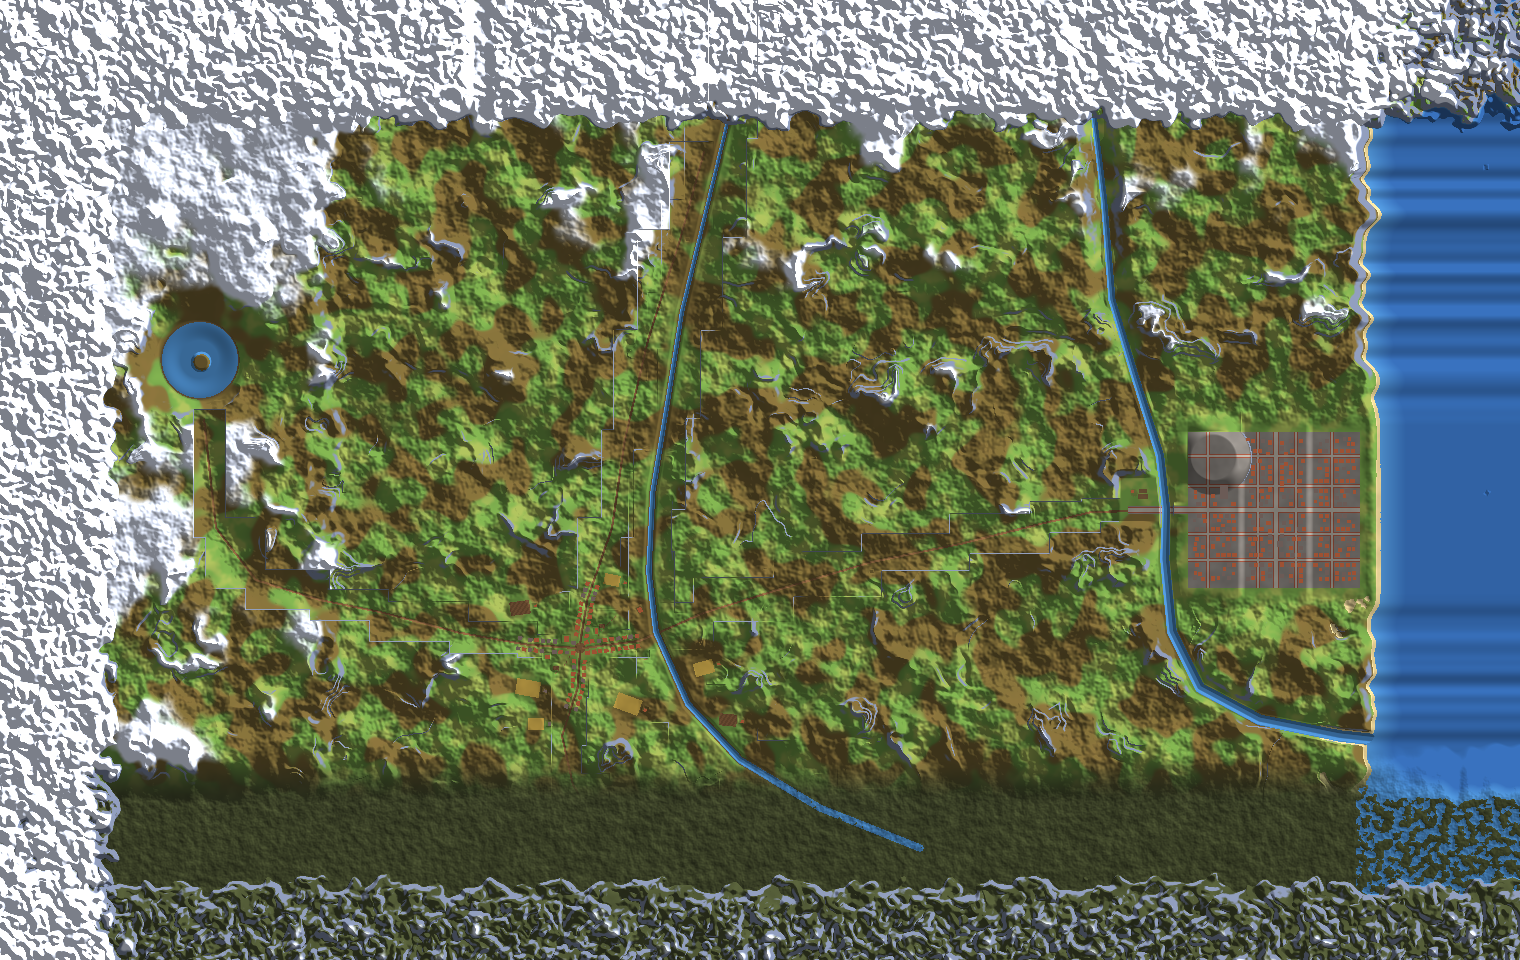
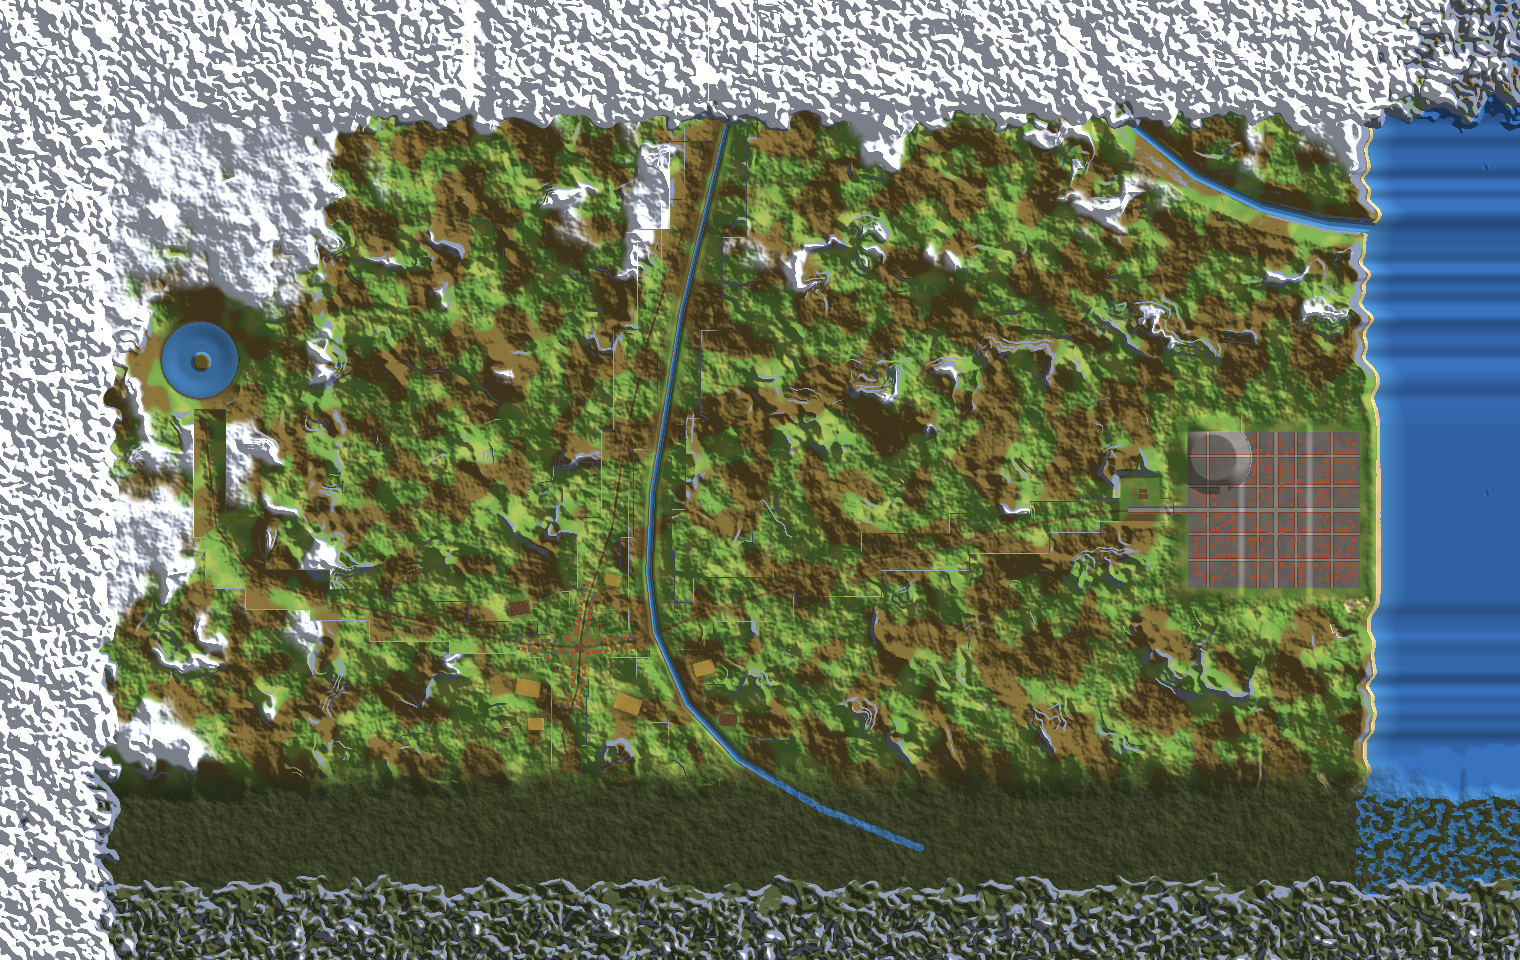
Rio fora da frente de Altamar; pacote inteiro espalhado: enfeites da cidade, vila e campos, natureza, lugares novos (batalha, acampamento militar, cemitério, bosque das fadas, ruínas, torres de vigia)
Claude-Session: https://claude.ai/code/session_01WFSuYSG1mTsBiEAWeNGYj8

Changed region(s): [[0.6803, 0.0625, 0.9276, 0.8125]]

diff --git a/docs/ATUALIZACOES.md b/docs/ATUALIZACOES.md
@@ -19,6 +19,20 @@
 - Depois de 10 segundos sem atacar nem defender, guarda as armas sozinho. Ao montar, também guarda.
 - Atacando (e sacando ou guardando) o herói não anda: fica parado no lugar.
 
+**Tudo do pacote e sem o rio na frente de Altamar**
+- O rio do leste saiu da frente do reino: agora desce das montanhas e vai ao mar bem ao norte da cidade.
+- Pacote Fantasy Kingdom inteiro no jogo (mais de 2.200 peças) e espalhado pelo mundo:
+  - cidade: floreiras, barris, caixotes, sacos, vasos e bancos nas portas, varais nos quintais, bandeirolas sobre a
+    avenida e a rua do mercado, estandartes na muralha, bandeiras nas torres, palco e quadro de missões na praça,
+    carroça de mercador, carroças, praça dos nobres (árvore grande, cercas-vivas), praça da justiça (forca e
+    guilhotina), porto com remos, baldes de peixe e caixotes, postes de amarrar cavalos e placa no portão;
+  - vila e campos: quadro de missões, placa de direção, carroças, carrinhos de mão, colmeias, girassóis, feno, roda
+    d'água no rio, canteiros com abóboras e repolhos, espantalhos;
+  - natureza: paredões de pedra nas encostas, pedras, samambaias na mata, flores nos campos, juncos e lírios no lago;
+  - lugares novos: Campo de Batalha (trabuco, catapulta, torre de cerco caída, mortos), Acampamento Militar (tendas,
+    armas, bonecos de treino, alvos, soldados), Cemitério atrás da igreja da vila, Bosque das Fadas (árvore enorme,
+    casinhas de fada), Ruínas do Norte e três Torres de Vigia.
+
 **Mundo vivo com o pacote**
 - Cidadãos do pacote Fantasy Kingdom (camponeses, mercadores, soldados, freira, padre, monge, ferreiros, taverneiro,
   rei, rainha, príncipe, princesa, bobo da corte, cartomante, maga) andando e parados com as animações da Synty:
